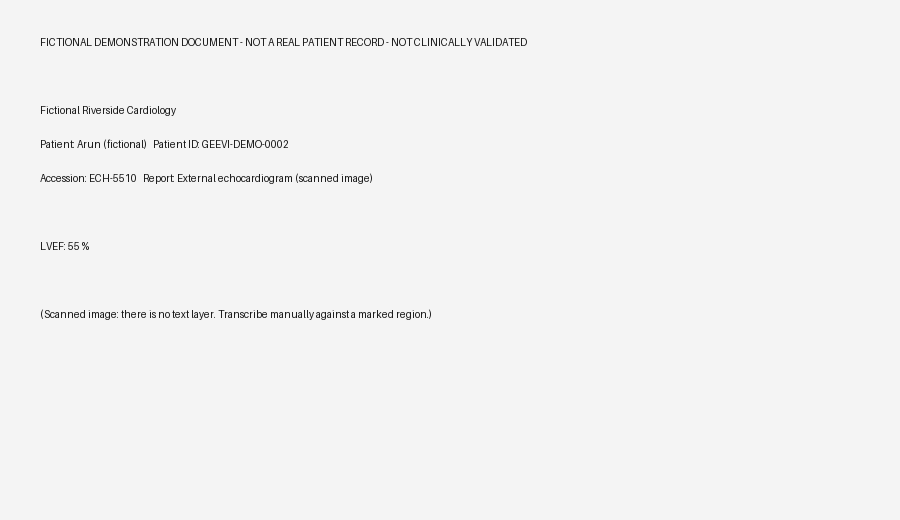
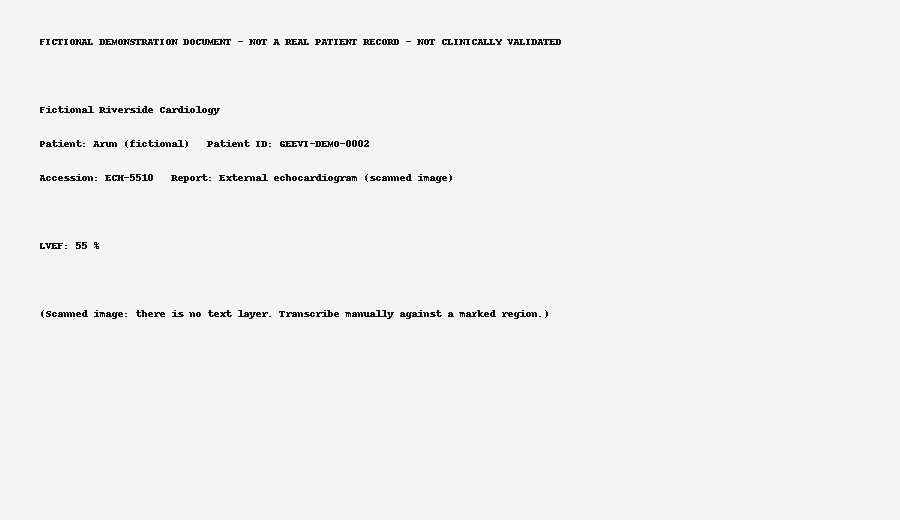
fix: make fixtures and legacy tests portable in CI

diff --git a/apps/api/tests/test_legacy_import.py b/apps/api/tests/test_legacy_import.py
@@ -1,6 +1,5 @@
 """U2: explicit legacy import into staging, original preservation and honest disclosure."""
 import hashlib
-import os
 import uuid
 from pathlib import Path
 
@@ -47,8 +46,12 @@ def tree_state(root: Path) -> dict:
 
 @pytest.fixture(autouse=True)
 def legacy_app_untouched():
-    before = tree_state(LEGACY_APP) if LEGACY_APP.exists() else {}
+    # A standalone checkout need not include the separate legacy prototype.
+    # Imports must neither modify it when present nor create it when absent.
+    existed = LEGACY_APP.exists()
+    before = tree_state(LEGACY_APP) if existed else {}
     yield
+    assert LEGACY_APP.exists() == existed, "imports must not create or remove the separate legacy app"
     assert (tree_state(LEGACY_APP) if LEGACY_APP.exists() else {}) == before, "the legacy app directory must never be modified"
 
 
@@ -166,4 +169,3 @@ def test_later_legacy_export_is_a_new_explicit_choice_not_a_merge(api, workspace
     assert any(r["legacy_kind"] == "tasks" for r in api("rao").get(f"{W(workspace)}/legacy-records"))
     discarded = op.post(f"{W(workspace)}/imports/{second['id']}/discard")
     assert discarded["status"] == "discarded" and discarded["staging_container_id"] is None
-    assert os.path.isdir(LEGACY_APP)

diff --git a/apps/api/scripts/make_fixtures.py b/apps/api/scripts/make_fixtures.py
@@ -309,7 +309,9 @@ def render_png(spec: dict) -> bytes:
     from PIL import Image, ImageDraw, ImageFont
     image = Image.new("L", (900, 520), 244)
     draw = ImageDraw.Draw(image)
-    font = ImageFont.load_default()
+    # Use Pillow's bundled bitmap font: FreeType's default font rasterizes differently
+    # on macOS and Linux, which changes the source hash despite identical authored text.
+    font = ImageFont.load_default_imagefont()
     patient = PATIENTS[spec["patient"]]
     lines = [BANNER, "", spec["issuer"], f"Patient: {patient['display_name']}   Patient ID: {patient['identifiers'][0]['value']}",
              f"Accession: {spec['accession']}   Report: {spec['title']}", ""]
@@ -318,7 +320,8 @@ def render_png(spec: dict) -> bytes:
     for index, line in enumerate(lines):
         draw.text((40, 36 + index * 34), line, fill=20, font=font)
     buf = io.BytesIO()
-    image.save(buf, format="PNG", optimize=False, compress_level=6)
+    # Stored deflate blocks also avoid platform-specific compressor output.
+    image.save(buf, format="PNG", optimize=False, compress_level=0)
     return buf.getvalue()
 
 
